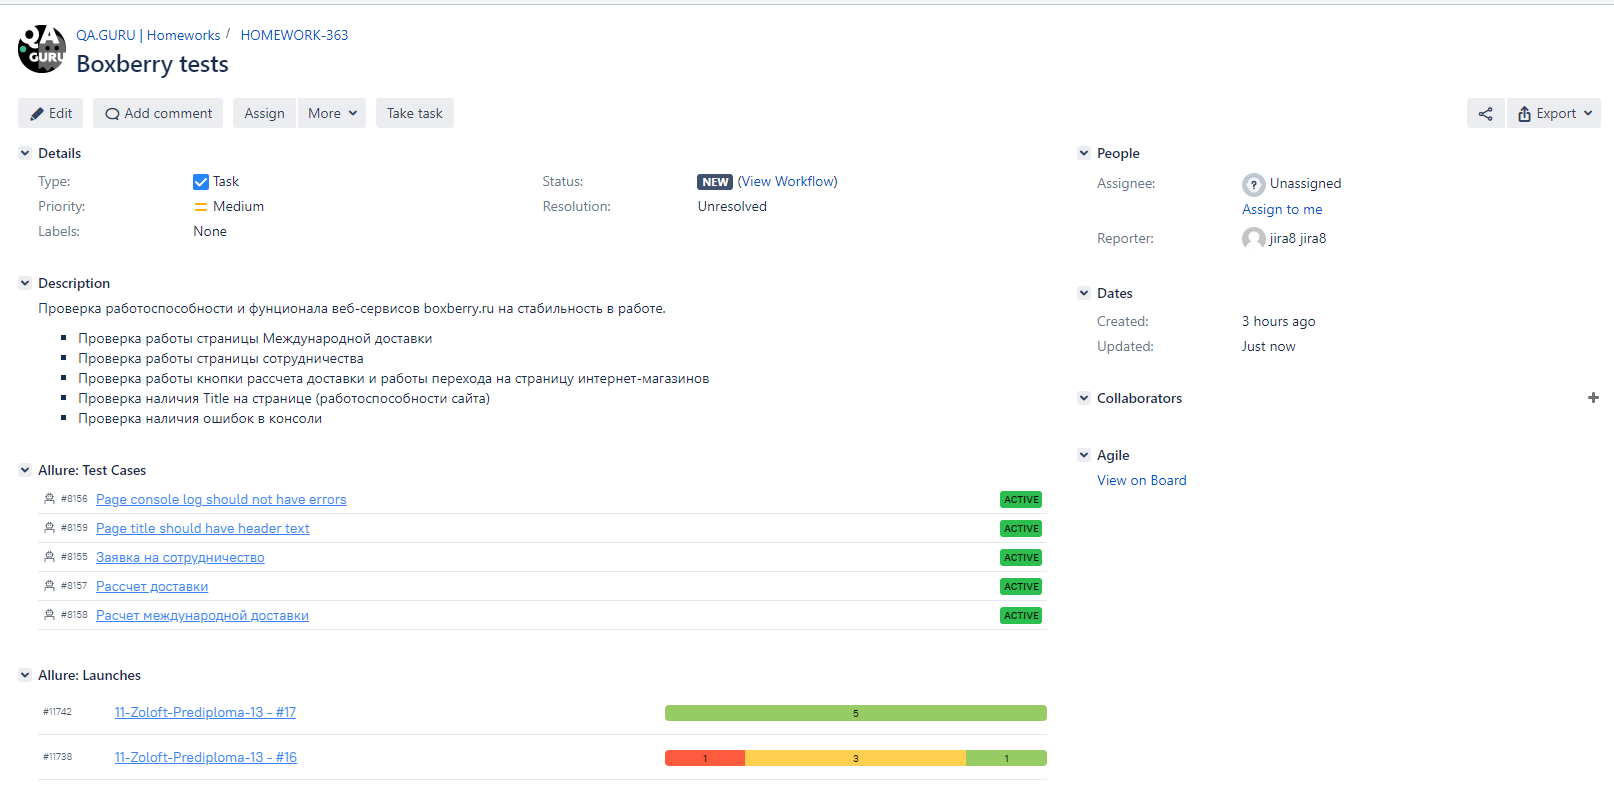
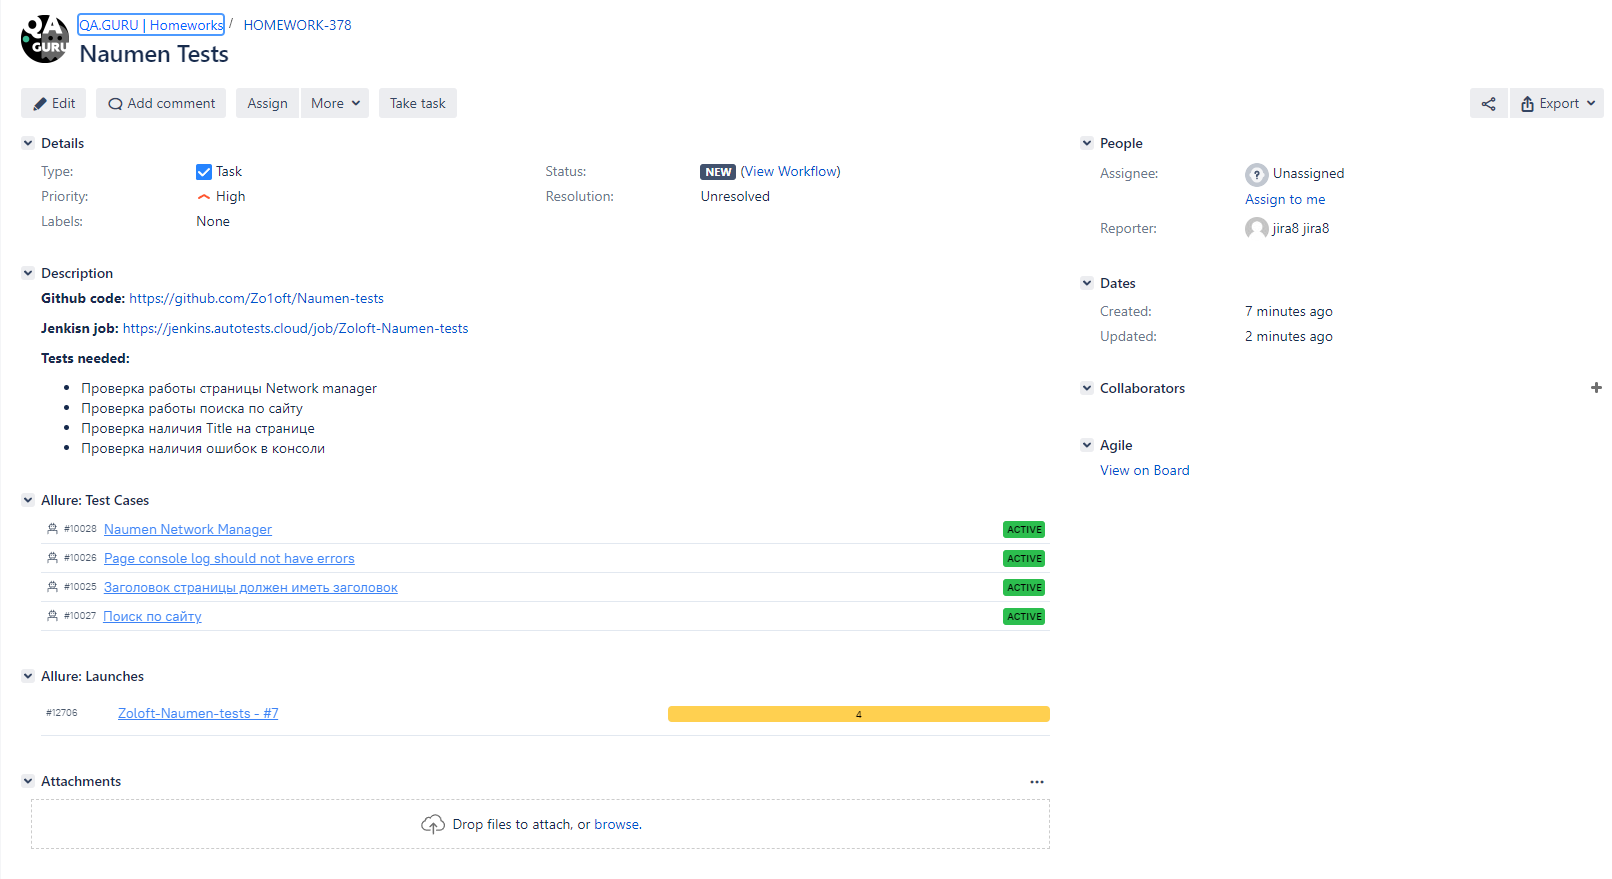
Add files via upload

diff --git a/README.md b/README.md
@@ -1,0 +1,111 @@
+# Проект по автоматизации тестирования naumen.ru
+<a href="https://boxberry.ru/"><img width="70%" title="Boxberry" src="images/logo/NAUMEN_2020.png"></a>
+
+## :point_up: Структура:
+
+- <a href="#point_up_2-технологии-и-инструменты">Стек</a>
+- <a href="#point_up_2-проведенные автотесты">Проведенные автотесты</a>
+- <a href="#point_up_2-сборка-в-Jenkins">Сборка в Jenkins</a>
+- <a href="#point_up_2-запуск-из-терминала">Запуск из терминала</a>
+- <a href="#point_up_2-allure-отчет">Allure отчет</a>
+- <a href="#point_up_2-интеграция-с-allure-testops">Интеграция с Allure TestOps</a>
+- <a href="#point_up_2-интеграция-с-jira">Интеграция с Jira</a>
+- <a href="#point_up_2-отчет-в-telegram">Отчет в Telegram</a>
+- <a href="#point_up_2-видео-примеры-прохождения-тестов">Видео примеры прохождения тестов</a>
+
+## :point_up_2: Стек
+<p align="center">
+<img width="6%" title="IntelliJ IDEA" src="images/logo/Intelij_IDEA.svg">
+<img width="6%" title="Java" src="images/logo/Java.svg">
+<img width="6%" title="Selenide" src="images/logo/Selenide.svg">
+<img width="6%" title="Selenoid" src="images/logo/Selenoid.svg">
+<img width="6%" title="Allure Report" src="images/logo/Allure_Report.svg">
+<img width="6%" title="Gradle" src="images/logo/Gradle.svg">
+<img width="6%" title="JUnit5" src="images/logo/JUnit5.svg">
+<img width="6%" title="GitHub" src="images/logo/GitHub.svg">
+<img width="6%" title="Jenkins" src="images/logo/Jenkins.svg">
+<img width="6%" title="Telegram" src="images/logo/Telegram.svg">
+</p>
+
+## :point_up_2: Проведенные автотесты
+- Проверка работы страницы Network manager
+- Проверка работы поиска по сайту
+- Проверка наличия Title на странице (работоспособности сайта)
+- Проверка наличия ошибок в консоли
+
+## :point_up_2: Сборка в Jenkins
+### <a target="_blank" href="https://jenkins.autotests.cloud/job/Zoloft-Naumen-tests/">Сборка в Jenkins</a>
+<p align="center">
+<img title="Jenkins Dashboard" src="images/screenshots/jenkins project.png">
+</p>
+
+### Параметры сборки в Jenkins:
+Сборка в Jenkins
+
+- repository (возможность сборки со своим репозиторием)
+- browser (браузер, по умолчанию chrome)
+- version (версия браузера, по умолчанию 91.0)
+- size (размер окна браузера, по умолчанию 1920x1080)
+- browsermobile (возможность запуска в мобильном браузере)
+- remoteUrl (адрес удаленного сервера selenoid)
+- threads (количество потоков, по умолчанию 5)
+- allure notification version (выбор версии Allure Notification, по умолчанию 2.2.3)
+
+## :point_up_2: Запуск из терминала
+Локальный запуск:
+```
+gradle clean test
+```
+
+Удаленный запуск:
+```
+clean
+test
+-Duser=${USER}
+-Dpassword=${PASSWORD}
+-Dbrowser=${BROWSER}
+-DremoteDriverUrl=https://${USERNAME}:${PASSWORD}@${REMOTE_DRIVER_URL}/wd/hub/
+-DbrowserVersion=${BROWSER_VERSION}
+-DbrowserSize=${BROWSER_SIZE}
+-DbrowserMobileView="${BROWSER_MOBILE}"
+-Dthreads=${THREADS}
+```
+
+## :point_up_2: Allure отчет
+- ### Главный экран отчета
+<p align="center">
+<img title="Allure Overview Dashboard" src="images/screenshots/allure-report.png">
+</p>
+
+- ### Страница с проведенными тестами
+<p align="center">
+<img title="Allure Test Page" src="images/screenshots/Allure-report-suite.png">
+</p>
+
+## :point_up_2: Интеграция с Allure TestOps
+- ### Экран с результатами запуска тестов
+<p align="center">
+<img title="TestOps Launch Page" src="images/screenshots/allure-test-ops.png">
+</p>
+
+- ### Страница с тестами в TestOps
+<p align="center">
+<img title="TestOps tests page" src="images/screenshots/allure-test-ops-test-case.png">
+</p>
+
+## :point_up_2: Интеграция с Jira
+- ### Страница с задачей в Jira
+<p align="center">
+<img title="Jira issue" src="images/screenshots/jira.png">
+</p>
+
+## :point_up_2: Отчет в Telegram
+<p align="center">
+<img title="Telegram notification message" src="images/screenshots/telegram.png">
+</p>
+
+## :point_up_2: Видео примеры прохождения тестов
+> К каждому тесту в отчете прилагается видео. Одно из таких видео представлено ниже.
+<p align="center">
+  <img title="Selenoid Video" src="images/gif/selenoid.gif">
+</p>
